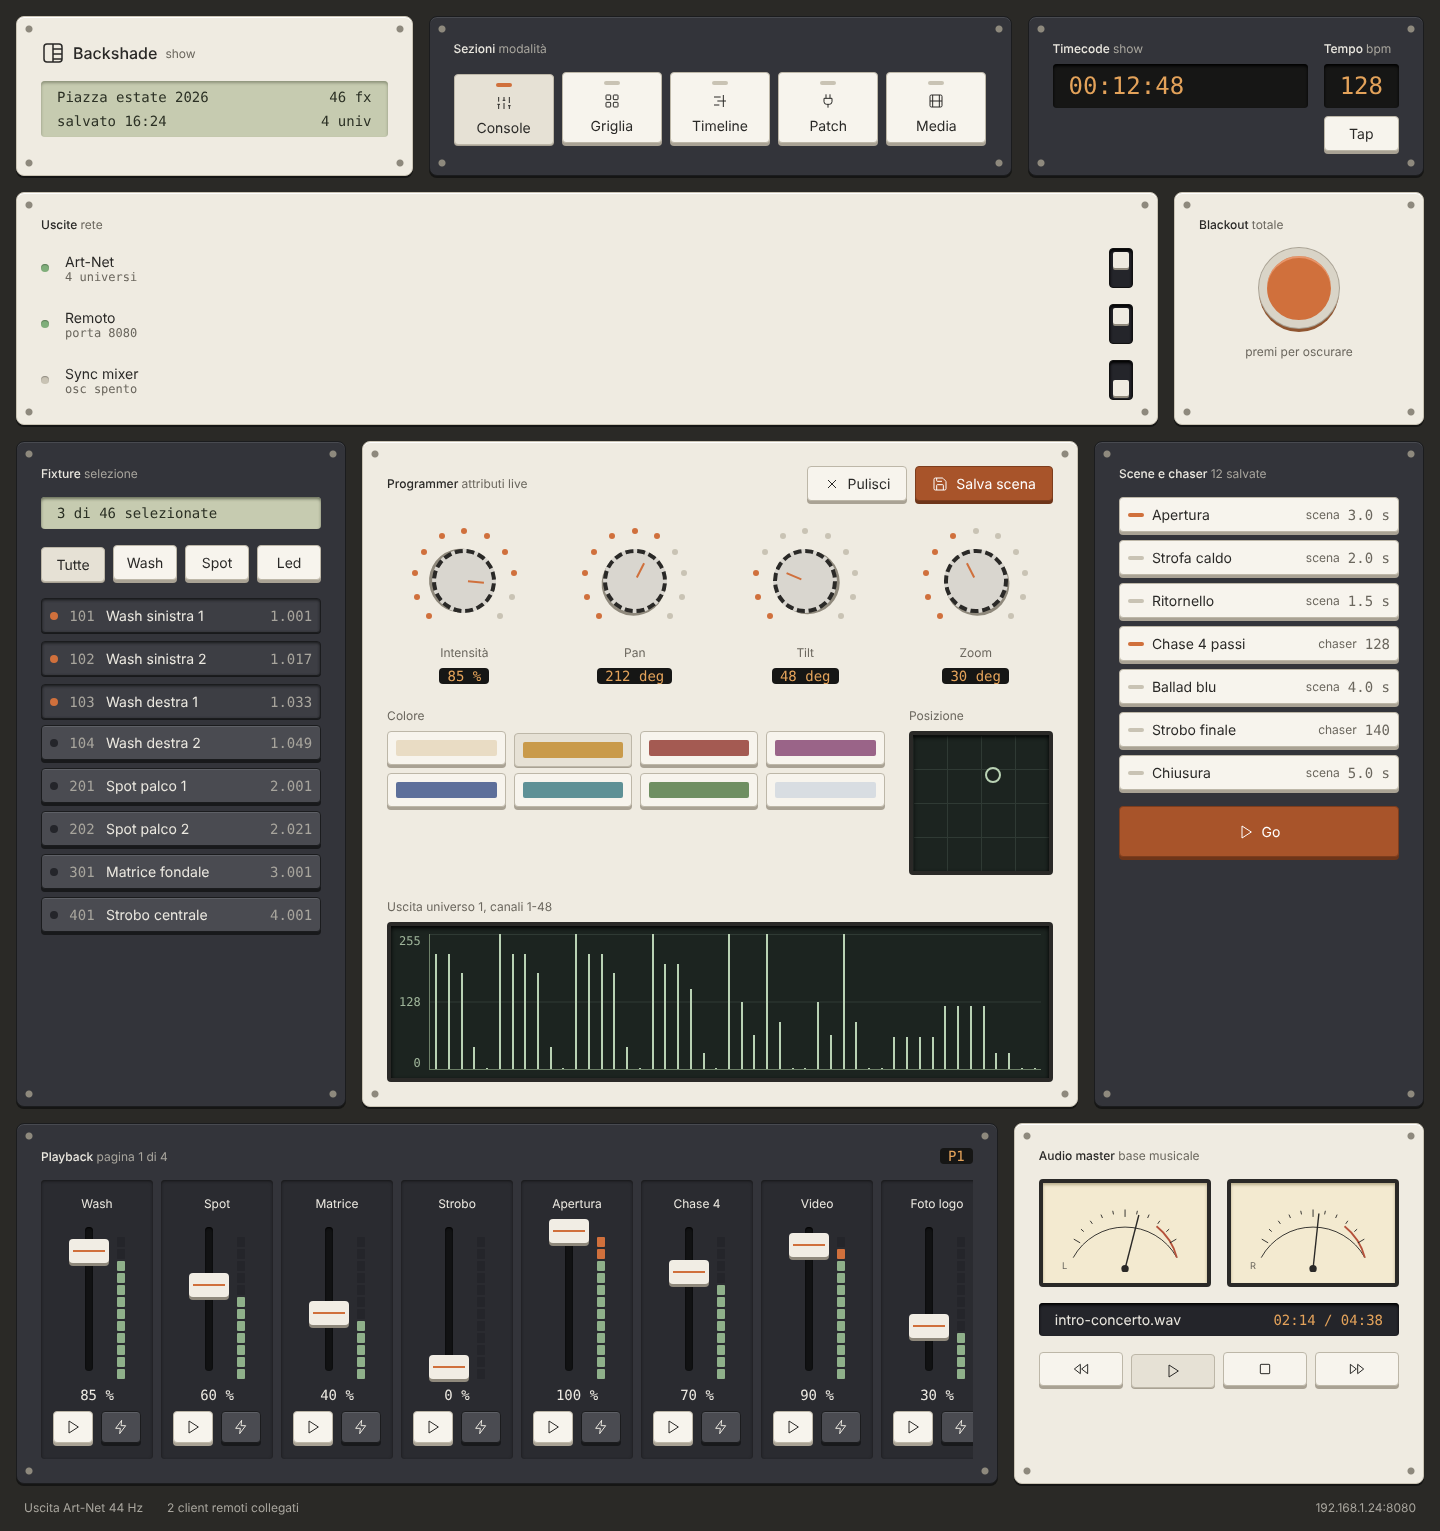
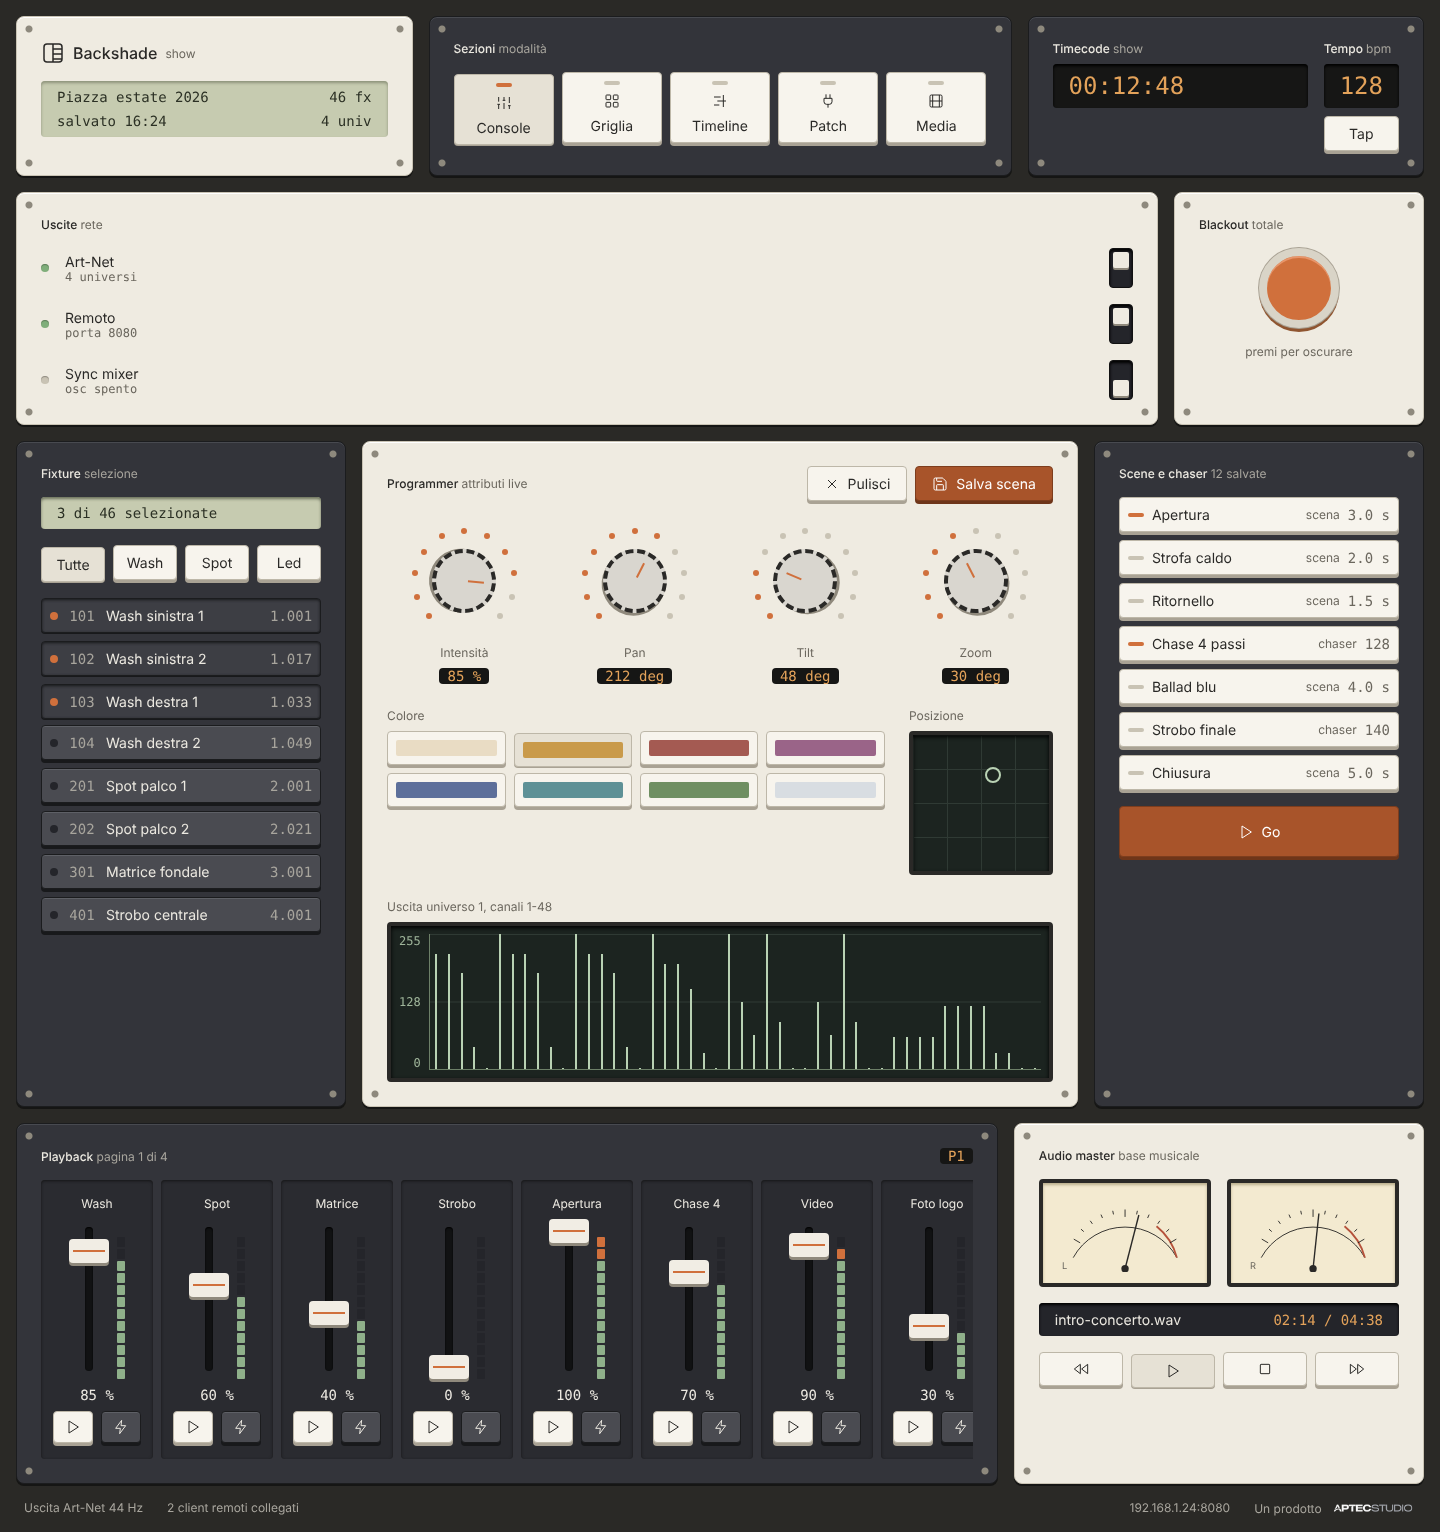
docs: add Aptec Studio brand assets and credits
Claude-Session: https://claude.ai/code/session_01DdJ68eKtbiqozLmUySG3Yh

diff --git a/docs/design/timeline.html b/docs/design/timeline.html
@@ -249,6 +249,7 @@ a{color:#d6d3cc}a:hover{color:#ffffff}
 <span>Aggancio alla griglia: 1 battuta</span>
 <span style="flex-grow: 1"></span>
 <span>Luci, audio e video sullo stesso clock</span>
+<a href="https://www.aptecstudio.com" style="display: flex; align-items: center; gap: 8px; color: #a8a59d; text-decoration: none">Un prodotto <img src="../brand/aptecstudio-wordmark.png" alt="Aptec Studio" style="height: 16px; width: auto"></a>
 </footer>
 </div>
 

diff --git a/docs/design/console.html b/docs/design/console.html
@@ -928,6 +928,7 @@ a{color:#d6d3cc}a:hover{color:#ffffff}
 <span>2 client remoti collegati</span>
 <span style="flex-grow: 1"></span>
 <span>192.168.1.24:8080</span>
+<a href="https://www.aptecstudio.com" style="display: flex; align-items: center; gap: 8px; color: #a8a59d; text-decoration: none">Un prodotto <img src="../brand/aptecstudio-wordmark.png" alt="Aptec Studio" style="height: 16px; width: auto"></a>
 </footer>
 </div>
 

diff --git a/ROADMAP.md b/ROADMAP.md
@@ -22,6 +22,7 @@ Versioning rules (see `AGENTS.md`):
   - [x] Icon library (Lucide)
   - [x] `.md` files in English
   - [x] Only alphanumeric characters, ASCII punctuation and accented letters (no glyphs or emoji)
+  - [x] Brand: Backshade is a product of Aptec Studio
 - [x] 0.7 Design draft revised as a hybrid with the hardware skeuomorphism reference
 
 ## Phase 1 - Runnable base (target 1.0.0)
@@ -33,6 +34,7 @@ Versioning rules (see `AGENTS.md`):
 - [ ] 1.5 Application layout: top bar, section navigation, status bar
 - [ ] 1.6 Localization system (Italian)
 - [ ] 1.7 Single transport layer between interface and engine (IPC)
+- [ ] 1.8 About window: version, license and Aptec Studio credit with the wordmark
 
 ## Phase 2 - Shows and projects
 
@@ -144,6 +146,7 @@ Static website presenting Backshade, in English and Italian. It lives in `/landi
 - [ ] 12.1 Astro project in `/landing` with Tailwind CSS and vanilla JavaScript, static output only
 - [ ] 12.2 Bilingual structure (English and Italian) with Astro i18n routing and a language switch
 - [ ] 12.3 Layout and components consistent with the application design system (hardware skeuomorphism, spacing scale, palette, Lucide icons)
+  - [ ] 12.3.1 Footer with the Aptec Studio credit, wordmark and copyright, as in the WooJam landing
 - [ ] 12.4 Pages: home, features, download, documentation, license
 - [ ] 12.5 Download page linking the platform builds on GitHub Releases
 - [ ] 12.6 SEO basics: titles, descriptions, `hreflang`, sitemap, favicon

diff --git a/MEMORY.md b/MEMORY.md
@@ -46,6 +46,17 @@ Status: Confirmed (2026-11-21).
 
 Status: Proposed.
 
+## Brand
+
+- Backshade is a product of **Aptec Studio** (website `https://www.aptecstudio.com`). Aptec Studio is the project name of the owner, not a separate legal entity, as in the WooJam project.
+- Brand assets are taken from the `aptecstudio/woojam` repository and stored in `docs/brand/`.
+- `docs/brand/aptecstudio-wordmark.png`: Aptec Studio wordmark, light letters for dark backgrounds, 1080 x 200 px. It is a logo image, so its uppercase lettering is not covered by the no-uppercase text rule.
+- Credit line used in the interface and on the landing site: "Un prodotto Aptec Studio" (Italian) and "A product by Aptec Studio" (English), with the wordmark linking to the website.
+- Copyright notice: "Copyright (C) 2026 Aptec Studio".
+- A Backshade logo does not exist yet: the human will provide it. Until then the interface uses a temporary line mark.
+
+Status: Confirmed (2026-11-21).
+
 ## Repository structure
 
 The repository contains two separate projects, each with its own `package.json`:

diff --git a/docs/brand/README.md b/docs/brand/README.md
@@ -1,0 +1,22 @@
+# Backshade brand assets
+
+Backshade is a product of [Aptec Studio](https://www.aptecstudio.com). The assets in this folder come from the `aptecstudio/woojam` repository.
+
+## Aptec Studio wordmark
+
+![Aptec Studio wordmark](aptecstudio-wordmark.png)
+
+- File: `aptecstudio-wordmark.png`, PNG with transparency, 1080 x 200 px.
+- Light letters: use it only on dark backgrounds (for example the chassis color `#2a2926`).
+- Display height: `16` px in the application, `18` px on the landing site.
+- Always link it to `https://www.aptecstudio.com` with the alternative text `Aptec Studio`.
+
+## Credit line
+
+- Italian: "Un prodotto Aptec Studio", followed by the wordmark.
+- English: "A product by Aptec Studio", followed by the wordmark.
+- Copyright: "Copyright (C) 2026 Aptec Studio".
+
+## Backshade logo
+
+Not defined yet: it will be provided by the human. Until then the design draft uses a temporary line mark drawn in the Lucide style.

diff --git a/README.md b/README.md
@@ -2,6 +2,8 @@
 
 Programming console for live shows: lights, audio and video in one simple application.
 
+A product by [Aptec Studio](https://www.aptecstudio.com).
+
 Backshade is a cross-platform desktop application (Windows, Linux, macOS) built on Electron, with a web interface that can also be used from other devices on the local network.
 
 ## Planned features
@@ -26,7 +28,11 @@ The project is being initialized. See [ROADMAP.md](ROADMAP.md).
 - [AGENTS.md](AGENTS.md): rules for AI agents
 - [ROADMAP.md](ROADMAP.md): phases and progress
 - [MEMORY.md](MEMORY.md): choices and conventions
+- [docs/design](docs/design/README.md): design reference
+- [docs/brand](docs/brand/README.md): brand assets
 
 ## License
+
+Copyright (C) 2026 Aptec Studio.
 
 Released under the [GNU General Public License v3.0](LICENSE).
